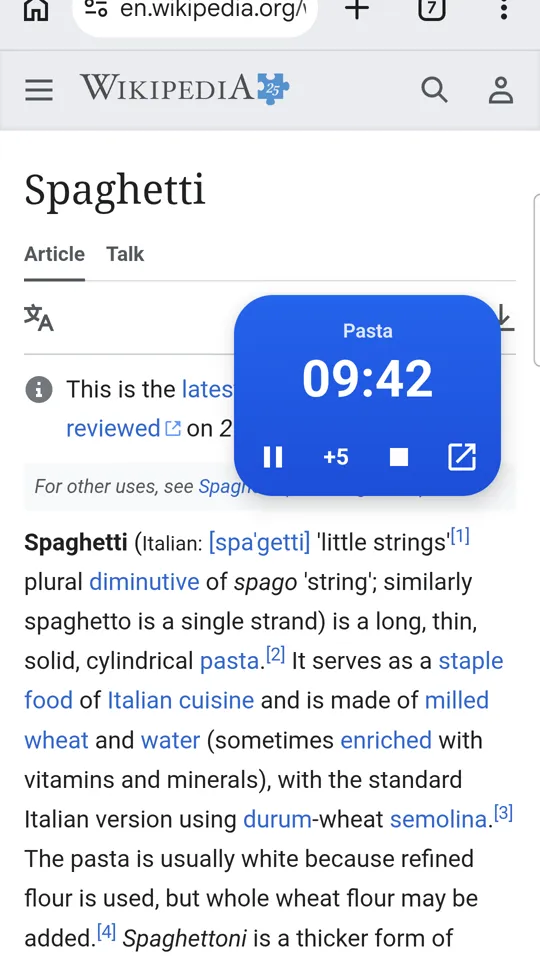
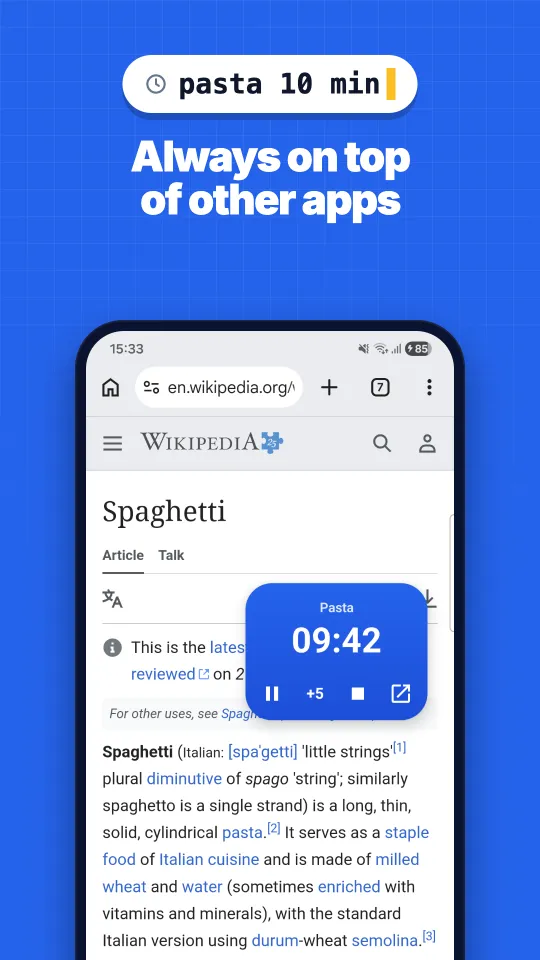
Use the Play Store screenshots for TypeTick and say More about on every card

diff --git a/lib/apps.ts b/lib/apps.ts
@@ -168,10 +168,10 @@ export const apps: AppInfo[] = [
     icon: "/assets/apps/typetick.png",
     accent: "#2563eb",
     screenshots: [
-      { src: "/assets/apps/typetick/type.webp", alt: "TypeTick running timer with quick controls and recent timers" },
+      { src: "/assets/apps/typetick/type.webp", alt: "TypeTick: type it, it starts" },
       { src: "/assets/apps/typetick/pill.webp", alt: "TypeTick floating pill over other apps" },
+      { src: "/assets/apps/typetick/notification.webp", alt: "TypeTick countdown in the status bar and the notification" },
       { src: "/assets/apps/typetick/pomodoro.webp", alt: "TypeTick Pomodoro focus and break cycles" },
-      { src: "/assets/apps/typetick/until.webp", alt: "TypeTick timer running until a clock time" },
     ],
     links: [{ label: "Website", href: "https://typetick.app/" }],
     highlights: [

diff --git a/app/components/AppShowcase.tsx b/app/components/AppShowcase.tsx
@@ -55,7 +55,7 @@ export function AppShowcase({ app }: { app: AppInfo }) {
         </p>
 
         <span className="mt-8 inline-flex items-center gap-1 text-sm font-semibold text-zinc-950 group-hover:underline dark:text-zinc-50">
-          {app.status === "coming-soon" ? "Take a look" : `More about ${app.name}`}
+          {`More about ${app.name}`}
           <ArrowRight className="h-4 w-4 transition-transform group-hover:translate-x-0.5" />
         </span>
       </div>

diff --git a/docs/PLAN-typetick-coming-soon.md b/docs/PLAN-typetick-coming-soon.md
@@ -30,17 +30,22 @@ Nuova voce dopo Tuttodì (le app Android insieme, in ordine di uscita):
 ## 2. Immagini
 
 - Icona: `../typetick/store/icon-512.png` → `public/assets/apps/typetick.png` (512×512, come Tuttodì).
-- Screenshot: 4 da `../typetick/website/src/assets/screens/en/` (01-type, 02-pill,
-  04-pomodoro, 08-until) → `public/assets/apps/typetick/*.webp` a 540×960, come quelli di Tuttodì.
-  Gli originali sono 1080×2340: il layout del sito forza 9:16 e li deformava, quindi sono
-  ritagliati a 1080×1920 da y=150 (via status bar e barra di navigazione) con `ffmpeg`, poi `cwebp`.
-  03-notification escluso: è un'immagine orizzontale (1080×530).
+- Screenshot: i primi 4 del Play Store, da `../typetick/store/en/` (01-type, 02-pill,
+  03-notification, 04-pomodoro, già 1080×1920) → `public/assets/apps/typetick/*.webp` a 540×960
+  con `cwebp`, come quelli di Tuttodì. Correzione di Davide (2026-11-03): le immagini sono quelle
+  dello store, non le catture del sito ritagliate.
 
 ## 3. Testi che elencano le app (un fatto, ogni posto che lo ripete)
 
 - `lib/site.ts` (description), `app/components/SiteHeader.tsx`, `app/apps/page.tsx`
   (3 description), `app/opengraph-image.tsx`, `public/llms.txt` (riga 3, elenco app, elenco siti):
   "Dunio, Tuttodì, TypeTick and Eye Break". In `llms.txt` TypeTick è "Coming soon to Google Play".
+
+## 4. Link della card
+
+Decisione di Davide (2026-11-03): la card di TypeTick dice "More about TypeTick" come Dunio e
+Tuttodì. In `app/components/AppShowcase.tsx` il testo "Take a look" per le app coming soon è
+tolto: ogni card dice "More about <nome>".
 
 ## Verifica
 
